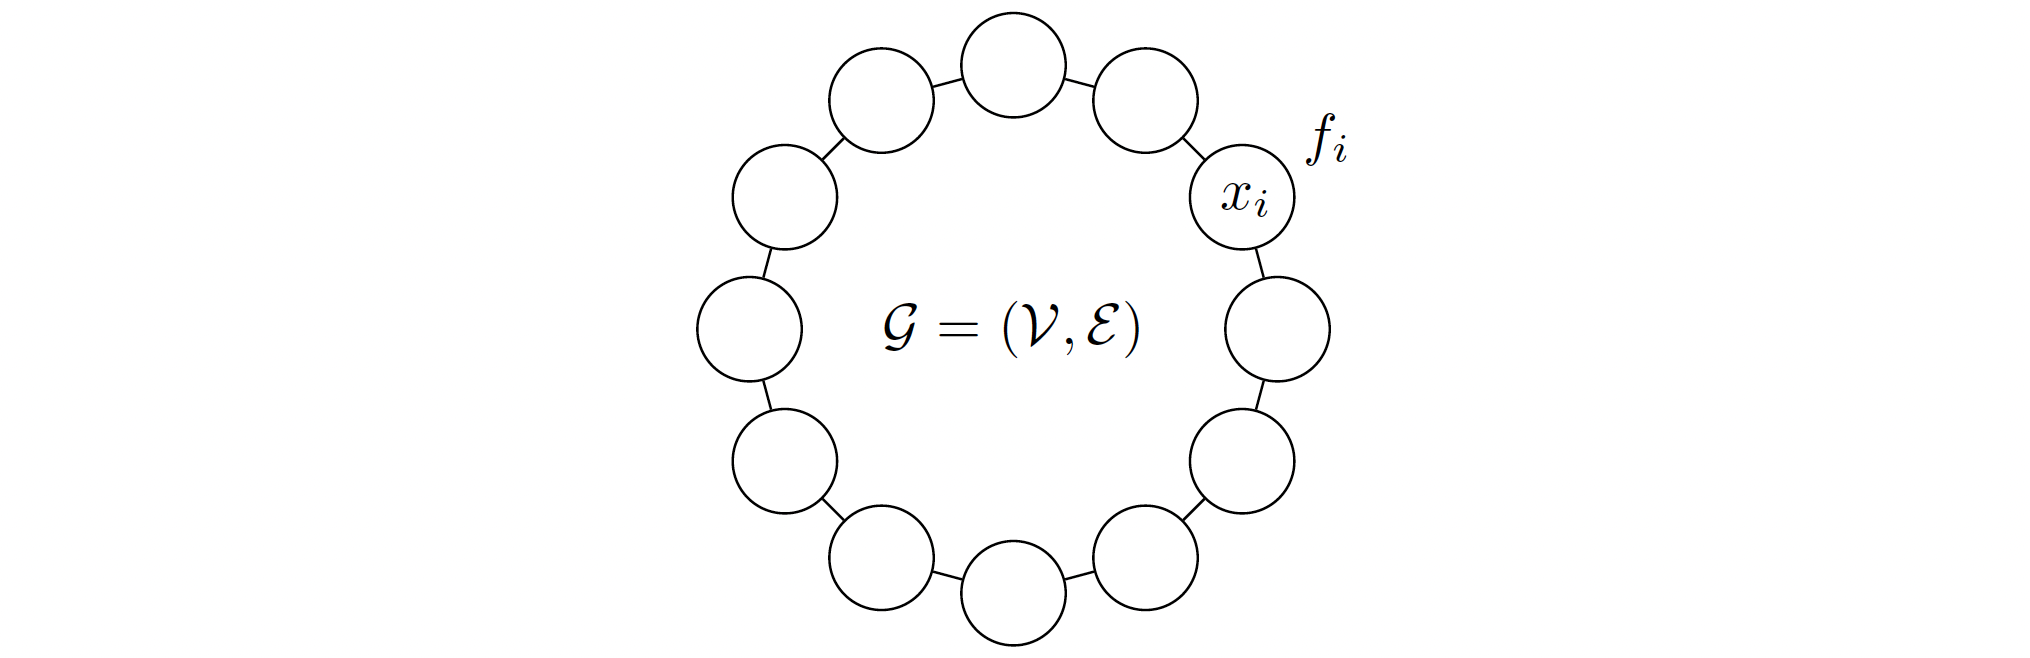
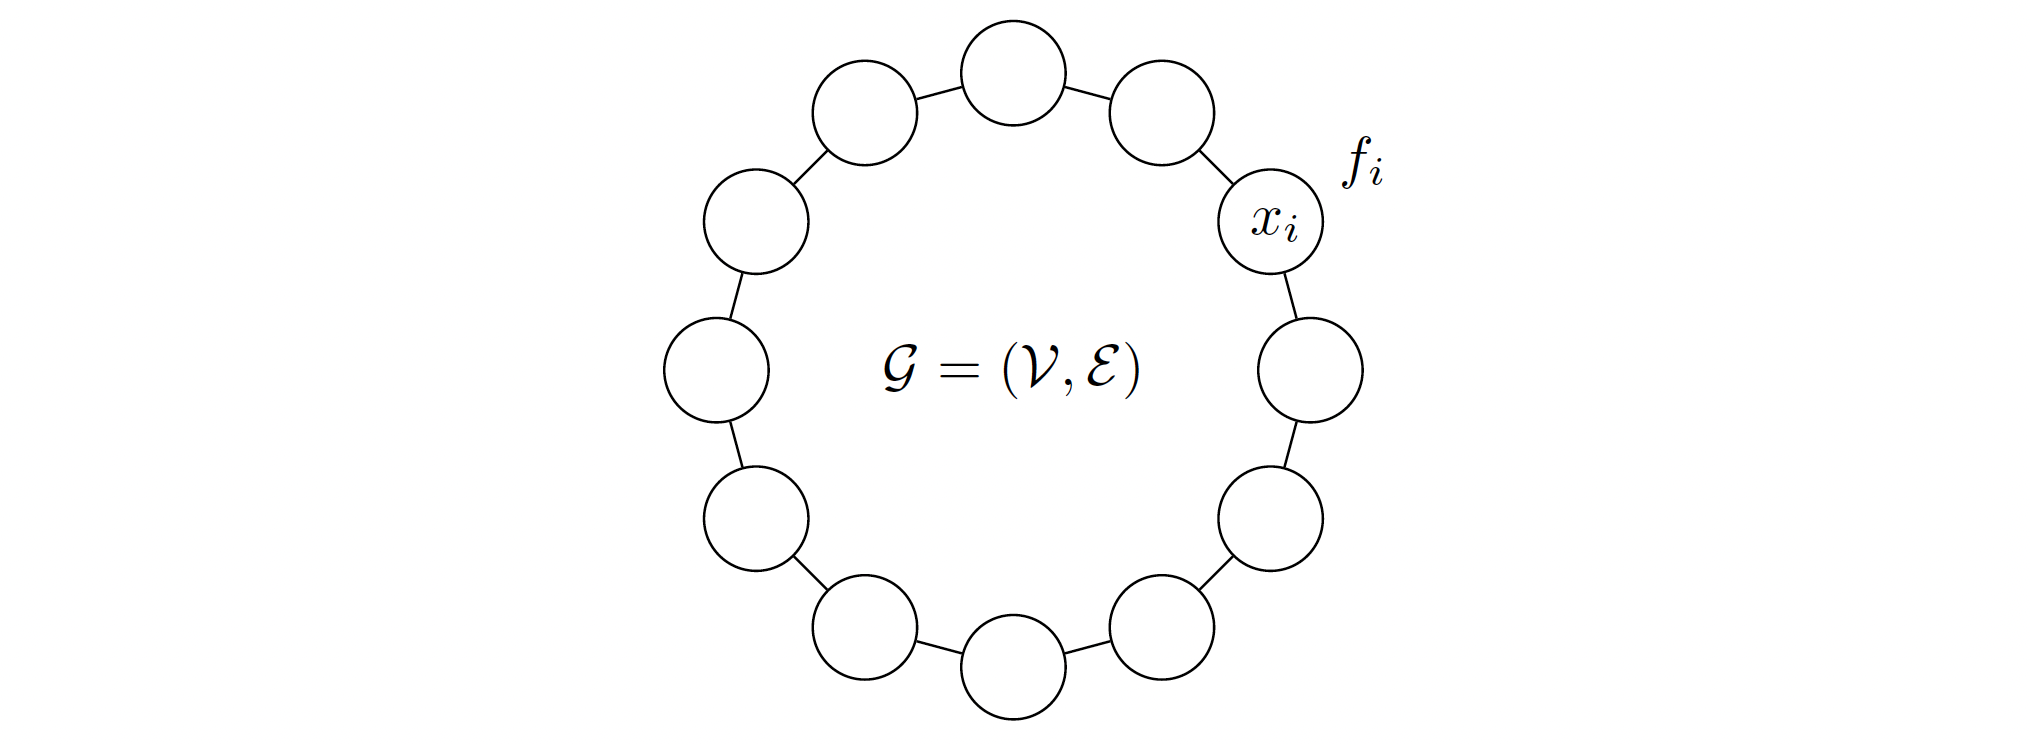
Add files via upload

diff --git a/research.html b/research.html
@@ -40,7 +40,7 @@ SIAM J. Control Optim., 59 (2021), pp. 3708-3736</p>
 <h2>Distributed coordination algorithms for convex minimization</h2>
 <p>We consider continuous-time coordination algorithms for networks of agents that seek to collectively solve convex optimization problems with an inherent distributed structure.</p>
 <table class="imgtable"><tr><td>
-<img src="distributed_algorithm.png" alt="alt text" width="677px" height="220px" />&nbsp;</td>
+<img src="distributed_algorithm.png" alt="alt text" width="677px" height="248px" />&nbsp;</td>
 <td align="left"></td></tr></table>
 <ul>
 <li><p><a href="https://niederlaender.github.io/2019_CoNi-jnls.pdf">Distributed coordination for nonsmooth convex optimization via saddle-point dynamics</a> <br />
